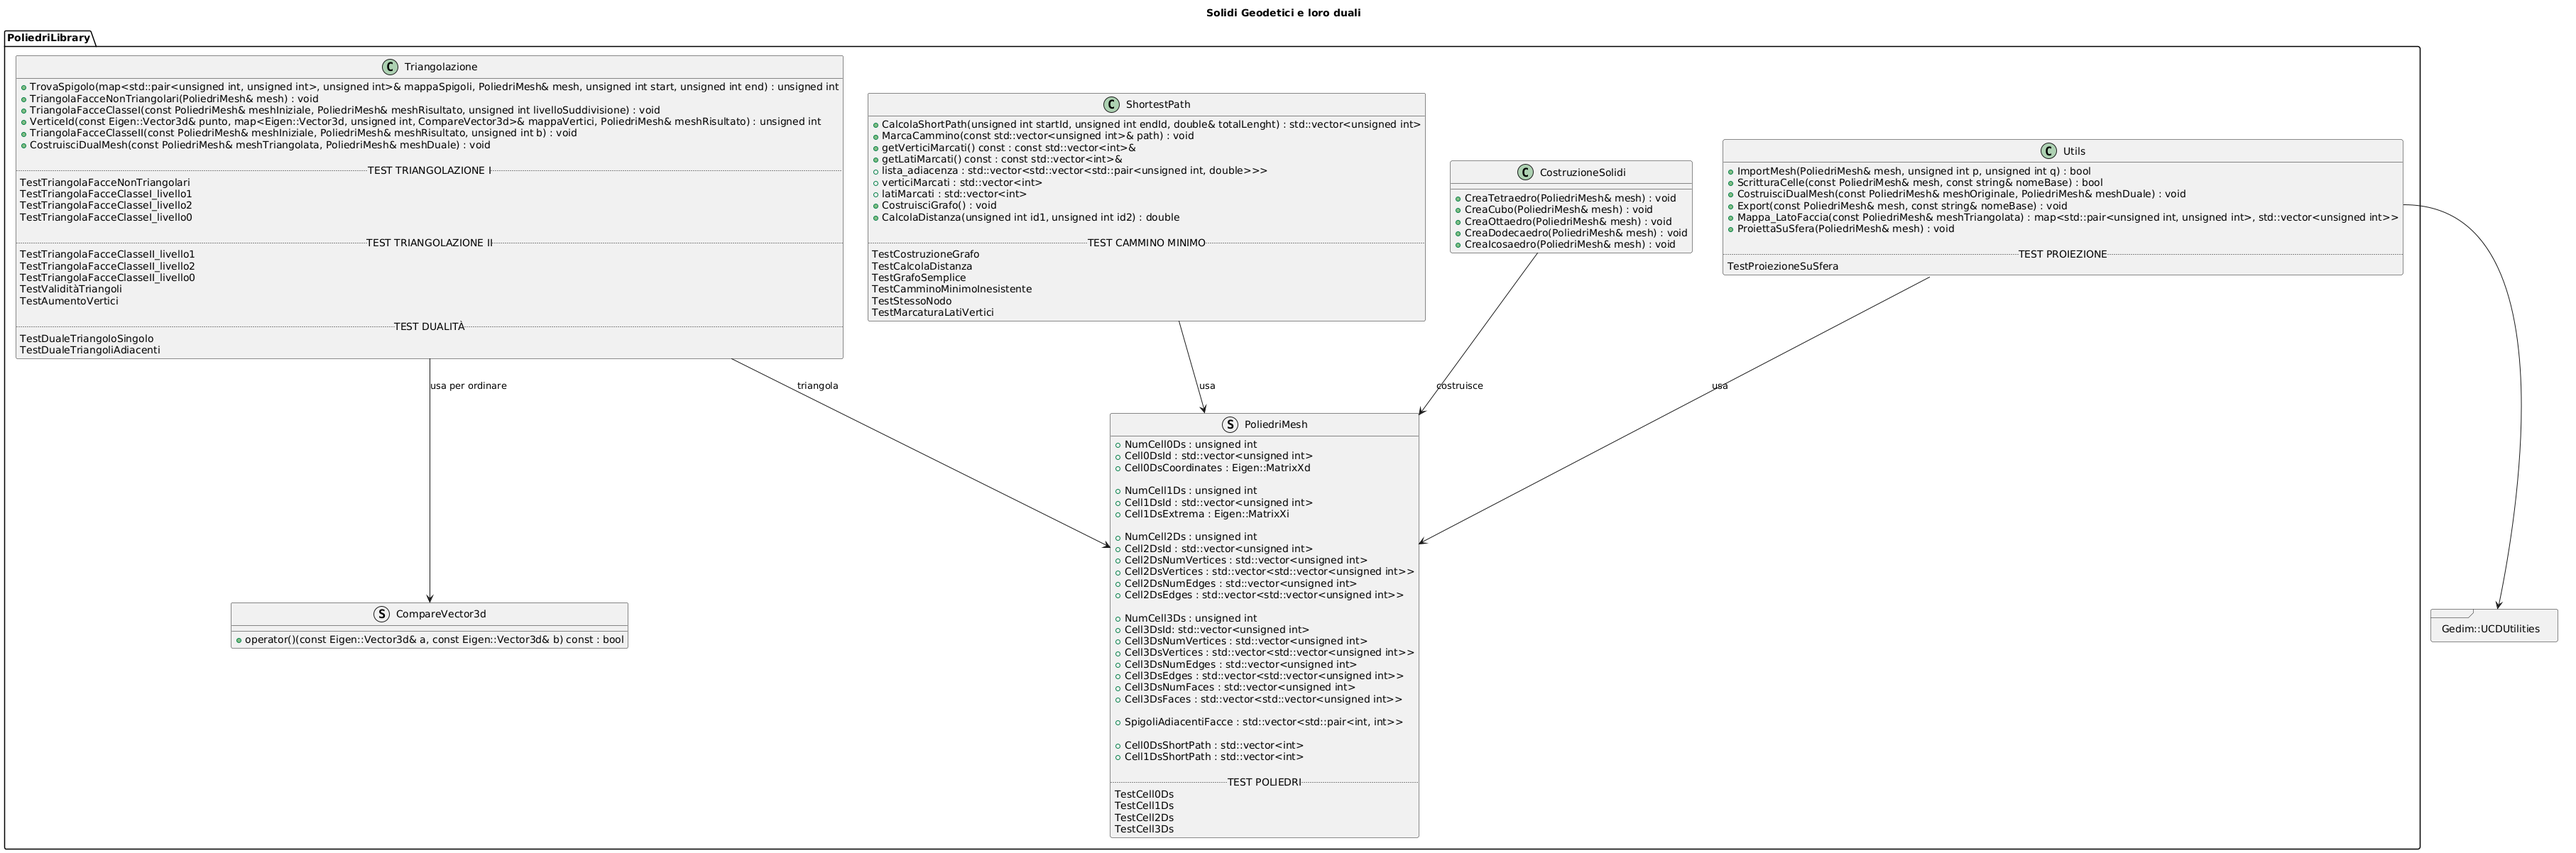
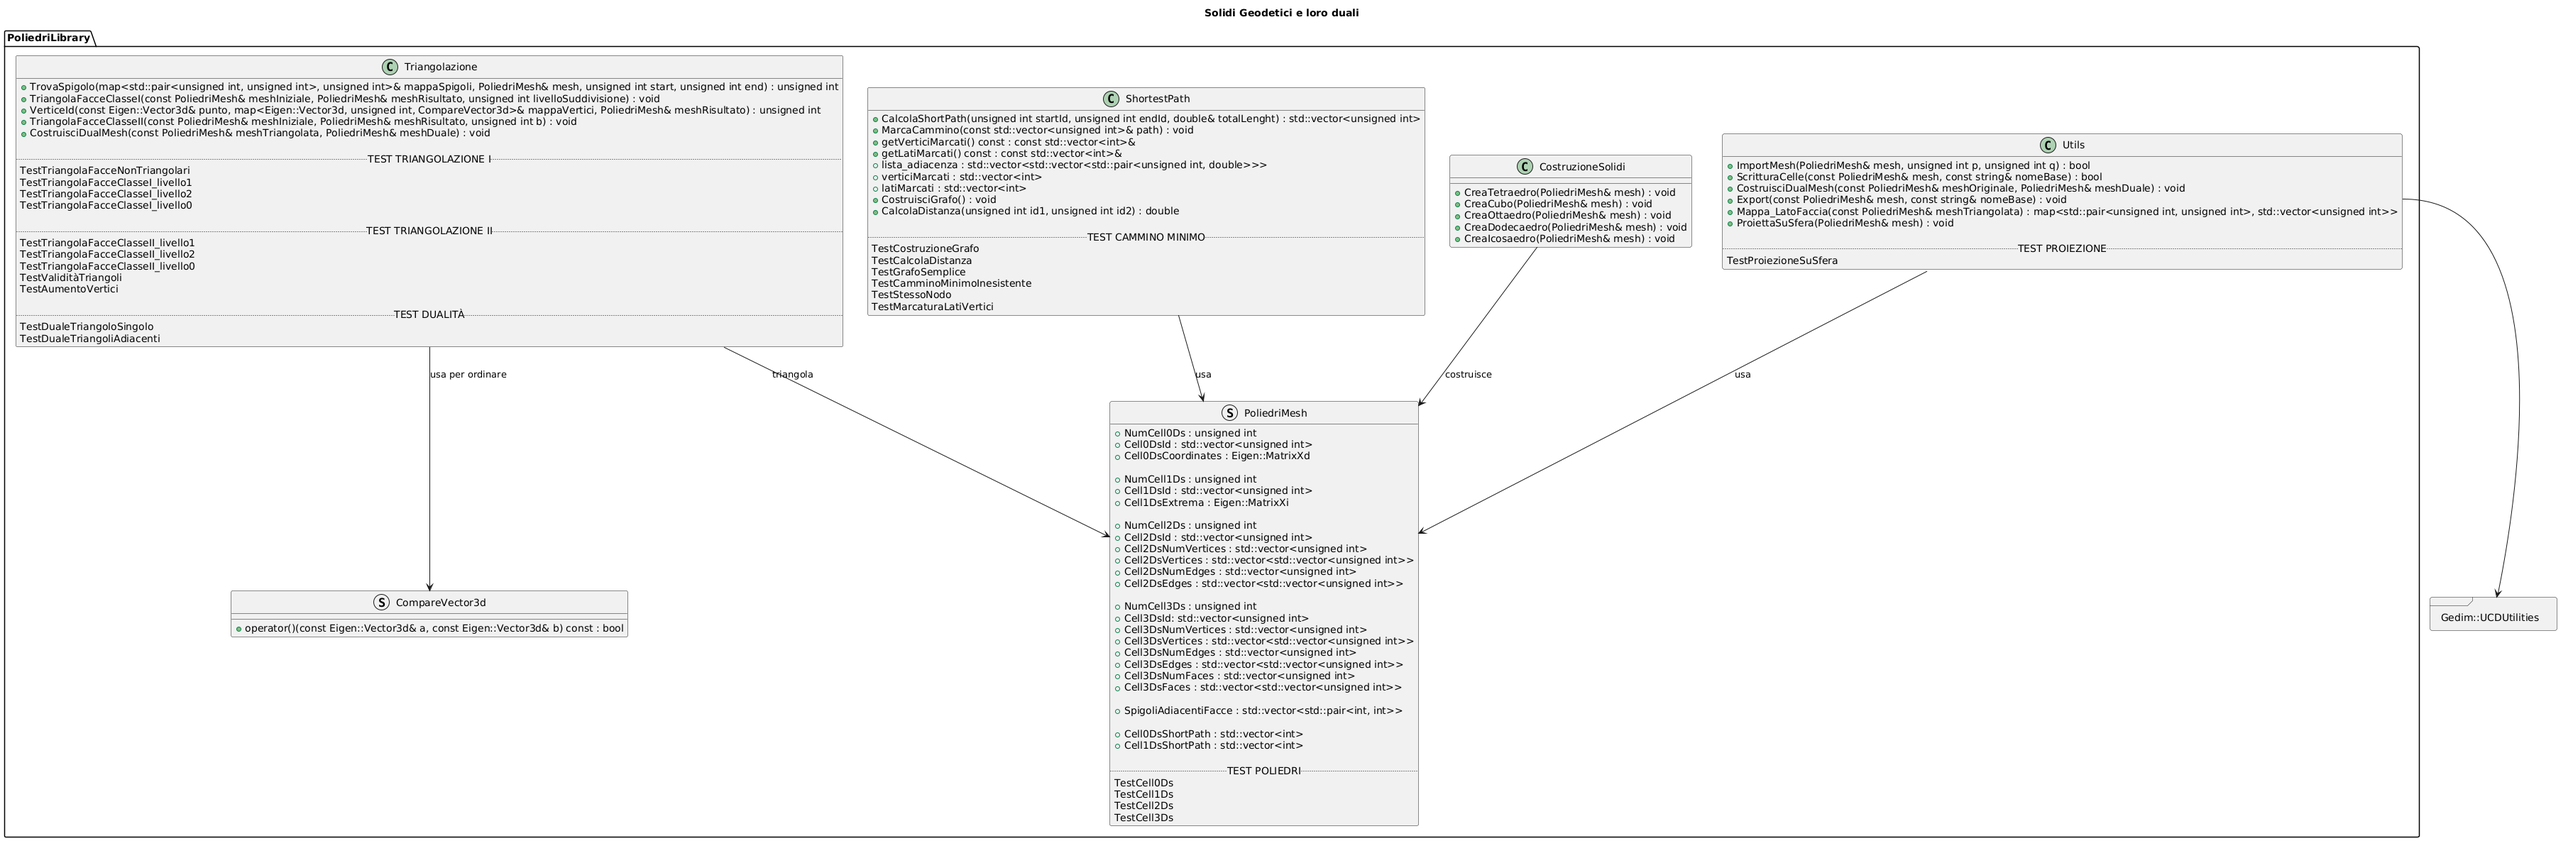
modifiche aggiunte

diff --git a/src/Triangolazione.cpp b/src/Triangolazione.cpp
@@ -22,44 +22,6 @@ struct CompareVector3d {
     }
 };
 
-void TriangolaFacceNonTriangolari(PoliedriMesh& mesh) {
-	vector<vector<unsigned int>> nuoveFacce;
-	vector<vector<unsigned int>> nuoviSpigoli;
-	vector<unsigned int> nuovoId;
-	
-	map<pair<unsigned int, unsigned int>, unsigned int> mappaSpigoli;
-	
-	for(size_t i = 0; i < mesh.Cell2DsVertices.size(); ++i) {
-		const auto& faccia = mesh.Cell2DsVertices[i];
-		
-		if(faccia.size() == 3) {
-			nuoveFacce.push_back(faccia);
-			nuovoId.push_back(nuoveFacce.size() - 1);
-			nuoviSpigoli.push_back({
-				TrovaSpigolo(mappaSpigoli, mesh, faccia[0], faccia[1]),
-				TrovaSpigolo(mappaSpigoli, mesh, faccia[1], faccia[2]),
-				TrovaSpigolo(mappaSpigoli, mesh, faccia[2], faccia[0])
-			});
-		}
-		else if(faccia.size() > 3) {
-			for(size_t j = 1; j < faccia.size() - 1; ++j) {
-				vector<unsigned int> triangolo = {faccia[0], faccia[j], faccia[j+1]};
-				nuoveFacce.push_back(triangolo);
-				nuovoId.push_back(nuoveFacce.size() - 1);
-				nuoviSpigoli.push_back({
-					TrovaSpigolo(mappaSpigoli, mesh, triangolo[0], triangolo[1]),
-					TrovaSpigolo(mappaSpigoli, mesh, triangolo[1], triangolo[2]),
-					TrovaSpigolo(mappaSpigoli, mesh, triangolo[2], triangolo[0])
-				});
-			}
-		}
-	}
-	
-	mesh.Cell2DsVertices = nuoveFacce;
-	mesh.Cell2DsEdges = nuoviSpigoli;
-	mesh.Cell2DsId = nuovoId;
-	mesh.NumCell2Ds = nuoveFacce.size();
-}
 
 void TriangolaFacceClasseI(const PoliedriMesh& meshIniziale, PoliedriMesh& meshRisultato, unsigned int livelloSuddivisione) {
     if (livelloSuddivisione == 0) {

diff --git a/src/Triangolazione.hpp b/src/Triangolazione.hpp
@@ -12,12 +12,7 @@ namespace PoliedriLibrary {
 	// mesh: PoliedriMesh struct
 	// restituisce una mesh triangola triangolando le facce del poliedro della meshIniziale secondo un livello di suddivisione regolare
 	void TriangolaFacceClasseI(const PoliedriMesh& meshIniziale, PoliedriMesh& meshRisultato, unsigned int livelloSuddivisione);
-	
-	// Triangolazione delle facce non triangolari (casi cubo e dodecaedro)
-	// mesh: PoliedriMesh struct
-	// genera nuovi elementi delle celle 2Ds quando le facce dei solidi non sono triangolari e non è possibile eseguire direttamente la triangolazione
-	void TriangolaFacceNonTriangolari(PoliedriMesh& mesh);
-	
+		
 	// Triangolazione delle facce dei solidi di classe 2
 	// mesh: PoliedriMesh struct
 	// restituisce una mesh triangolata triangolando le facce del poliedro della meshIniziale secondo il livello di suddivisione b

diff --git a/src_test/test_poliedri.hpp b/src_test/test_poliedri.hpp
@@ -189,21 +189,6 @@ TEST(Cell3DsTest, Inizializzazione) {
 
 // Test sulla costruzione dei solidi geodetici di classe 1
 
-//Test sulla corretta suddivisione in triangoli di una faccia con più di tre vertici
-TEST(TriangolazioneITest, TriangolaFacceNonTriangolari) {
-	PoliedriMesh mesh;
-	mesh.Cell2DsVertices = {{0, 1, 2, 3}};
-	mesh.Cell0DsCoordinates.resize(3, 4); // allocazione di memoria per 4 vertici
-	
-	TriangolaFacceNonTriangolari(mesh);
-	
-	EXPECT_EQ(mesh.NumCell2Ds, 2); // suddivisione di un quadrilatero in due triangoli
-	EXPECT_EQ(mesh.Cell2DsVertices.size(), 2);
-	for(const auto& faccia : mesh.Cell2DsVertices) {
-		EXPECT_EQ(faccia.size(), 3); // ogni faccia deve essere triangolare
-	}
-}
-
 // Test sulla triangolazione con livello di suddivisione uguale a 1
 TEST(TriangolazioneITest, TriangolaFacceClasseI_livello1) {
 	PoliedriMesh meshIniziale;

diff --git a/main.cpp b/main.cpp
@@ -43,9 +43,6 @@ int main() {
         return 1;
     }
 	
-	// cout << "[DEBUG] Numero facce nella mesh iniziale: " << meshPlatonico.Cell2DsVertices.size() << endl;
-	
-	TriangolaFacceNonTriangolari(meshPlatonico);
 
 	// Triangolazione 
     PoliedriMesh meshTriangolata;
